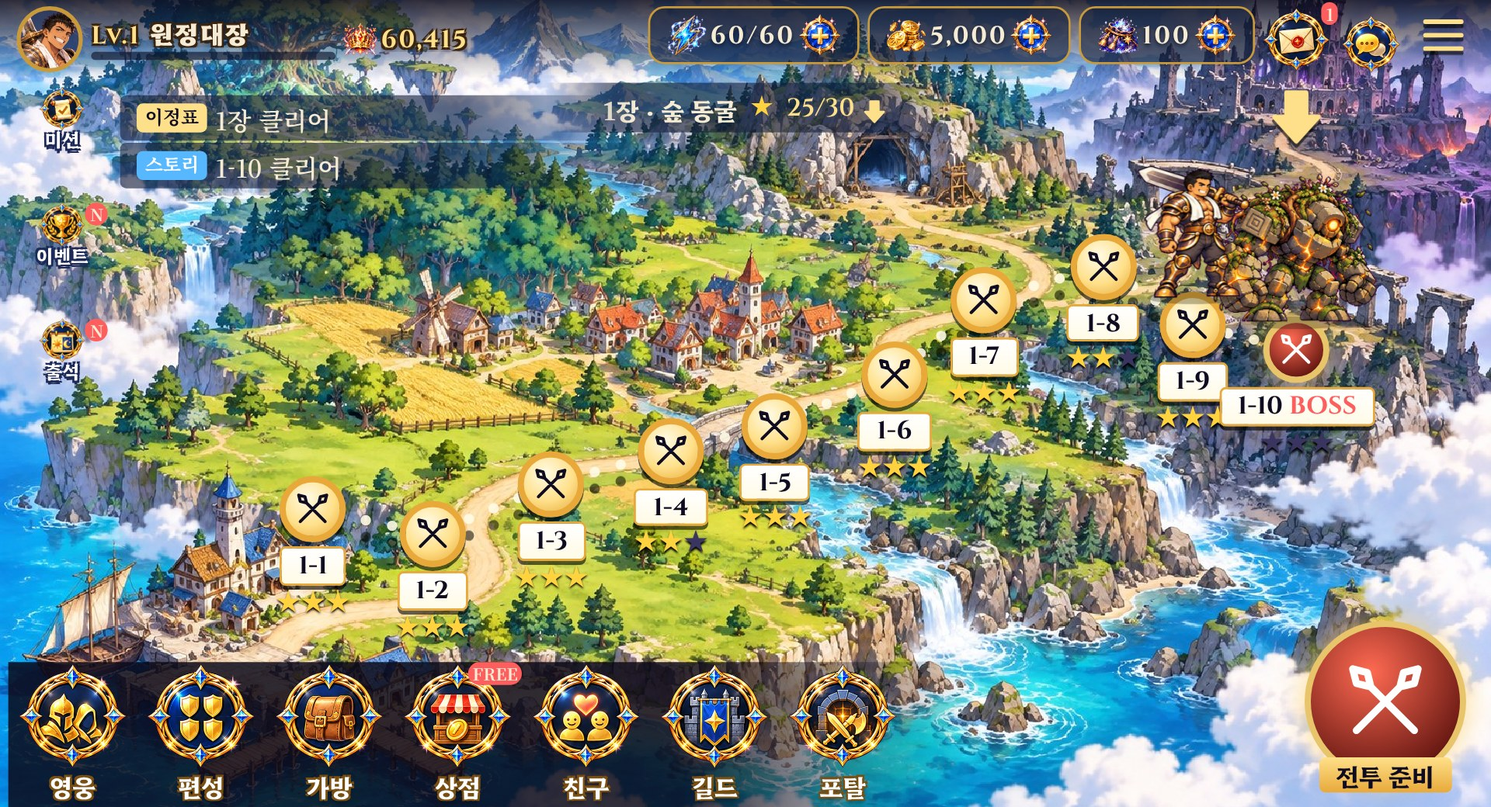
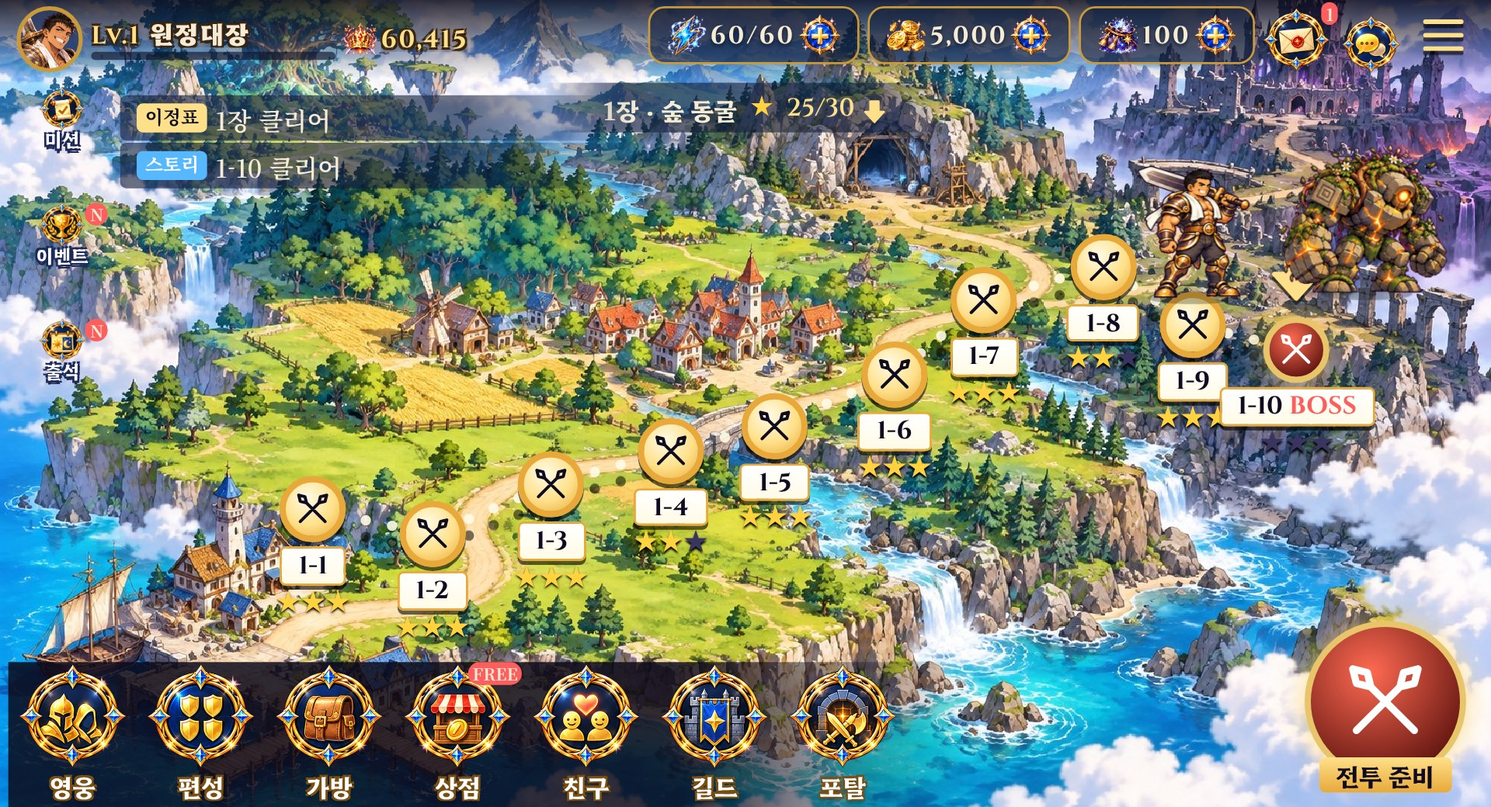
fix: 보스를 보스 노드 오른쪽 뒤로 + v0.12.2
- 보스 앞 장면에서 1-9 원정대장과 보스가 겹치던 것: 보스를 노드에서 오른쪽 34px·뒤(위) 14px로 비켜 세움 (config ui.mainMap.boss)
- 보스가 비켜 서서 메달 위가 비므로 화살표는 보스 노드 메달 바로 위
- 버전 0.12.2 · 패치노트 「모험 지도가 메인 화면으로」 · PROGRESS
- 캡처 v2/phone_2_boss·pc_2_boss 갱신

Claude-Session: https://claude.ai/code/session_01FsyrP9uAFamVy4ndSB8J19

Changed region(s): [[0.8125, 0.1846, 0.9688, 0.4308], [0.8438, 0.0923, 0.9062, 0.1846]]

diff --git a/src/ui/mainMap.ts b/src/ui/mainMap.ts
@@ -37,14 +37,15 @@ function clamp() {
   if (layer) layer.style.transform = `translate(${at.x}px, ${at.y}px)`;
 }
 
-/** 노드 n 위에 서는 그림 하나 (DOM 캔버스 · 발 = 메달 윗변 · 노드 메달보다 앞) */
-function addFig(n: number, h: number, face: number, anim: Anim) {
+/** 노드 n 위에 서는 그림 하나 (DOM 캔버스 · 발 = 메달 윗변 · 노드 메달보다 앞) · [dx, dy] = 오른쪽·뒤로 비켜 서기(px) */
+function addFig(n: number, h: number, face: number, anim: Anim, [dx, dy] = [0, 0]) {
   const [x, y] = NODES[n - 1];
   const H = h + M.figPad;
   const cv = document.createElement('canvas');
   cv.className = 'mfig';
   cv.style.left = `${x}%`;
   cv.style.top = `${y}%`;
+  if (dx || dy) cv.style.transform = `translate(calc(-50% + ${dx}px), calc(-100% - ${7 + dy}px))`;
   cv.style.width = `${M.figW}px`;
   cv.style.height = `${H}px`;
   cv.width = Math.round(M.figW * view.dpr);
@@ -78,13 +79,13 @@ export function mainMapStart(el: HTMLElement, c: number, d: number, leadId: stri
   }
   if (!img.complete) img.addEventListener('load', fit, { once: true });
   fit();
-  // 장 보스 (마지막 스테이지 마지막 웨이브의 보스) — 시트가 없으면 받아 둠 · 왼쪽(길 쪽)을 봄
+  // 장 보스 (마지막 스테이지 마지막 웨이브의 보스) — 시트가 없으면 받아 둠 · 왼쪽(길 쪽)을 봄 · 노드 오른쪽 뒤에 섬
   const b = buildMobs({ c, s: NODES.length, d }).flat().find((m) => m.boss);
   if (b) {
     const { def } = animOf(b.kind.anims, 'idle');
     const dirs = [...new Set(def.frames.map((f) => f.split(':')[0]))].filter((x) => !hasSheet(view.art.sheet, x));
     if (dirs.length) void loadInto(view.art.sheet, dirs);
-    addFig(NODES.length, M.bossH, -1, { key: b.kind.anims.idle!.frames[0], frames: def.frames, def });
+    addFig(NODES.length, M.bossH, -1, { key: b.kind.anims.idle!.frames[0], frames: def.frames, def }, M.boss);
   }
   // 원정대장: 마지막으로 깬 노드 (장 처음이면 1번 노드)
   const art = artOf(heroOf(leadId));

diff --git a/src/config.ts b/src/config.ts
@@ -397,8 +397,8 @@ export const CONFIG = {
     /** 흐리게 까는 화면 (그림 위 반투명 막) */
     screenVeil: ['adventure', 'heroes', 'hero', 'prep', 'shop', 'bag', 'portal', 'mission', 'friends', 'ranking', 'mail', 'settings', 'guild'] as string[],
     /** 메인 모험 지도 (RECOVER_1018 S1 · 형철 10/18): 화면 덮는 크기의 몇 배 · 끌기 시작 거리(px) · 노드 메달 가운데가 올 safe 띠(위 HUD 밑 ~ 아래 메뉴 위 · px)
-     *  노드 위 그림: 원정대장·보스 키(메달 32px의 2배 남짓) · 그림 캔버스 너비 · 머리 위 여백 · 발밑 그림자 높이 */
-    mainMap: { zoom: 1, dragPx: 6, nodeTop: 118, nodeBottom: 264, leadH: 64, bossH: 72, figW: 110, figPad: 14, figFoot: 6 }, speeds: [1, 1.5, 2], toastSec: 1.5,
+     *  노드 위 그림: 원정대장·보스 키(메달 32px의 2배 남짓) · 그림 캔버스 너비 · 머리 위 여백 · 발밑 그림자 높이 · 보스는 노드에서 오른쪽·뒤(위)로 비켜 섬(px · 1-9 원정대장과 안 겹치게) */
+    mainMap: { zoom: 1, dragPx: 6, nodeTop: 118, nodeBottom: 264, leadH: 64, bossH: 72, figW: 110, figPad: 14, figFoot: 6, boss: [34, 14] as [number, number] }, speeds: [1, 1.5, 2], toastSec: 1.5,
     /** 로비 뜬 뒤 나머지 영웅 시트를 동시에 몇 개씩 받을지 (SPRITE_RES §C) */
     preloadAtOnce: 3,
     /** 로딩 막대가 이 초 동안 안 움직이면 「다시 시도」 · 그림 하나가 이 초 넘게 안 오면 건너뜀 (PLAYTEST §1) */

diff --git a/src/ui/screens.ts b/src/ui/screens.ts
@@ -104,8 +104,8 @@ register('lobby', {
       const id = { c, s: i + 1, d };
       const open = unlocked(id);
       const st = !open ? 'off' : starsAt(id) > 0 ? 'done' : 'now';
-      // 다음 노드 화살표: 메달 바로 위 · 그 노드에 원정대장(장 첫 노드)이나 보스가 서 있으면 그 머리 위
-      const fig = i === 0 && ns.s === 1 ? CONFIG.ui.mainMap.leadH : isBoss(id) ? CONFIG.ui.mainMap.bossH : 0;
+      // 다음 노드 화살표: 메달 바로 위 · 그 노드에 원정대장(장 첫 노드)이 서 있으면 그 머리 위 (보스는 오른쪽 뒤로 비켜 서서 메달 위가 비어 있음)
+      const fig = i === 0 && ns.s === 1 ? CONFIG.ui.mainMap.leadH : 0;
       return `<button class="mnode ${st}${isBoss(id) ? ' boss' : ''}" style="left:${x}%;top:${y}%" data-s="${i + 1}" ${open ? '' : 'disabled'}>${st === 'now' ? `<i class="arw"${fig ? ` style="top:-${fig + CONFIG.ui.mainMap.figPad + 20}px"` : ''}>${icon('pointer')}</i>` : ''}<i class="md">${icon(open ? 'battle' : 'lock')}</i><b class="pl">${c}-${i + 1}${isBoss(id) ? ' <em>BOSS</em>' : ''}</b>${open ? starsHtml(starsAt(id)) : ''}</button>`;
     }).join('');
     root.innerHTML = `<div class="mlayer"><svg viewBox="0 0 100 100" preserveAspectRatio="none"><polyline points="${NODES.map(([x, y]) => `${x},${y}`).join(' ')}" /></svg>${nodes}</div>

diff --git a/docs/PROGRESS.md b/docs/PROGRESS.md
@@ -469,6 +469,11 @@
 - 영웅 정보: `.body > .hlist` 남색 판(panelDeep + 테두리) · 전신 `.fbcol .fb` left 62%
 - 승리 별: 결과가 뜬 뒤 0.45초 + 0.32초 간격으로 하나씩 떨어지는 연출이라 캡처 순간에 따라 2개만 보일 수 있음 — 승리 GIF에서 3개 모두 확인
 
+### v0.12.2 (10/18) — S1 메인 = 모험 지도
+- 로비(여관) 대신 모험 지도가 메인. 노드(메달·번호판·별), 원정대장·장 보스 도트, 다음 노드 화살표, 진행 중 2줄(이정표·스토리 꼬리표), 왼쪽 미션·이벤트·출석, 아래 메뉴 7 + 전투 준비, ≡ 메뉴(업적·랭킹·우편·설정)
+- 노드 메달은 늘 위 HUD 밑 ~ 아래 메뉴 위(config ui.mainMap.nodeTop·nodeBottom) · 보스는 노드 오른쪽 뒤
+- 캡처: docs/captures/s1_map, s1_map/v2
+
 ## 2. ChatGPT 그림 뽑는 방법 (반드시 이대로)
 1. **Claude in Chrome**으로 형철 브라우저의 chatgpt.com 사용. 모드는 Chat. 한 영웅 묶음은 **같은 대화 안에서** 이어 뽑기(일관성). 새 묶음이면 새 대화(이전 디자인 섞임 방지)
 2. **개척자 5명(woongs·gonu·ikamolly·walwal·warmnight)은 반드시 「체크인」 초상화 첨부**: `star_<id>.png`(신화) + `p_<id>.png`(평소). 글 설명만으로 뽑지 말 것
